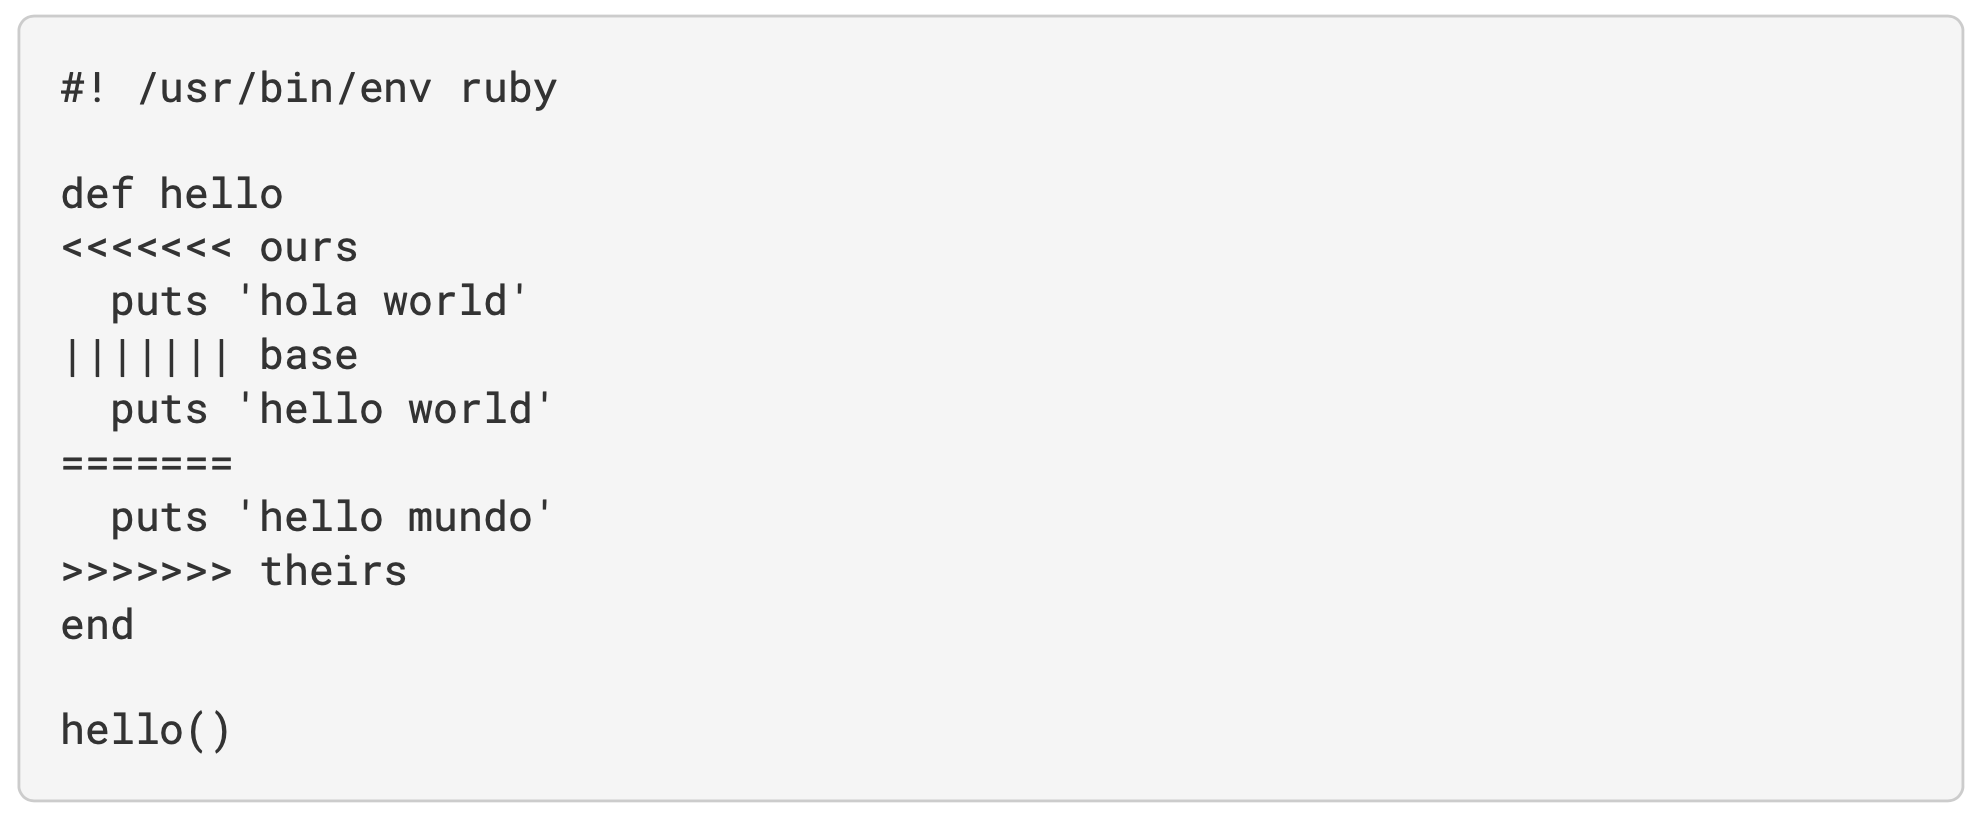
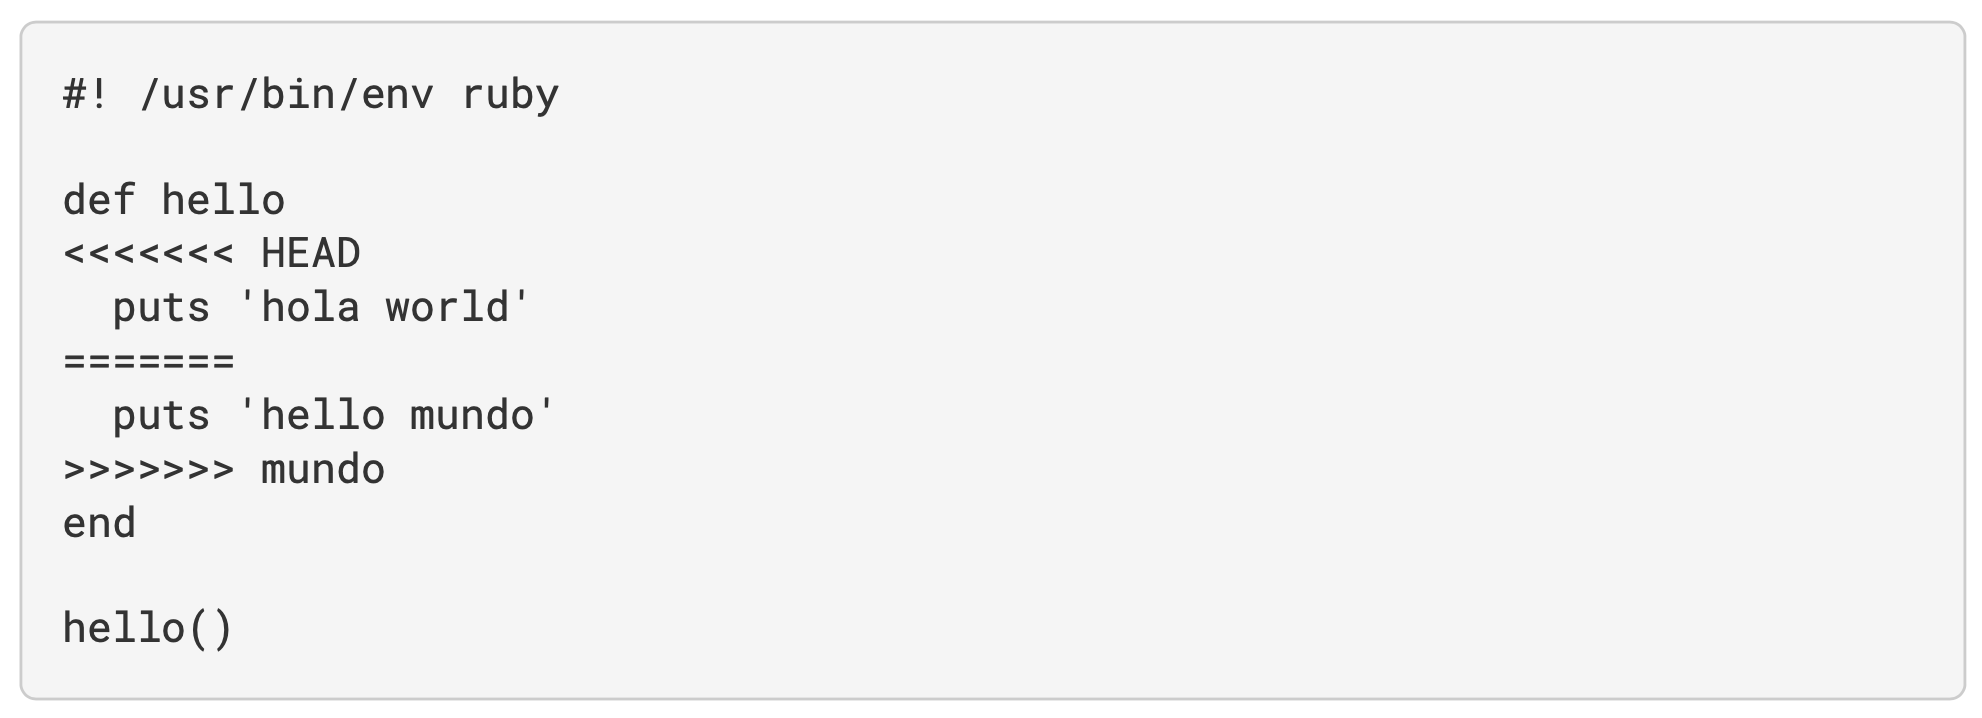
git rerere

diff --git a/progit.md b/progit.md
@@ -1504,9 +1504,13 @@ git reset --hard HEAD
 
 - **默认**：只给出 「ours」 和 「theirs」 版本。
 
-  > ![image-20221126233353663](./imgs/合并冲突.png)
+  ```shell
+  git checkout --conflict=merge {filename}
+  ```
 
-- **重新检出文件**：不只给出 「ours」 和 「theirs」 版本。还给出 「base」 版本。
+  > <img src="./imgs/合并冲突.png" alt="image-20221127145149798" style="zoom:50%;" />
+
+- 不只给出 「ours」 和 「theirs」 版本。还给出 「base」 版本。
 
   ```shell
   git checkout --conflict=diff3 {filename}
@@ -1598,17 +1602,42 @@ git revert -m 1 HEAD
 
 ## Rerere
 
-> **reuse recorded resolution**【重用记录的解决方案】
+> **reuse recorded resolution**【重用记录的解决方案】：让git记住解决一个块冲突的方法，下一次遇到相同的冲突时，git可以自动解决。
 
-
-
-让git记住解决一个块冲突的方法，下一次遇到相同的冲突时，git可以自动解决。
-
-启动rerere功能
+### 启动
 
 ```shell
+# 全局
 git config --global rerere.enabled true
+
+# 项目：在仓库中创建 .git/rr-cache 目录
 ```
+
+### 使用场景
+
+- **保证一个长期分支会干净地合并**：偶尔合并，解决冲突，然后退出合并。
+- **用变基来替代合并**：修复冲突后，回退再使用变基。
+- **将一堆正在改进的主题分支合并到一个测试分支**：如果测试失败，可以倒回合并之前然后在去除导致测试失败的那个主题分支后重做合并，而不用再次重新解决所有的冲突。
+
+### 相关命令
+
+- ```shell
+  git rerere status
+  ```
+
+  > 展示记录合并前状态。
+
+- ```shell
+  git rerere diff
+  ```
+
+  > 显示解决方案的当前状态——开始解决前与解决后的样子。
+
+- ```shell
+  git rerere
+  ```
+
+  > 通过rerere来解决合并。
 
 ## 子模块
 
